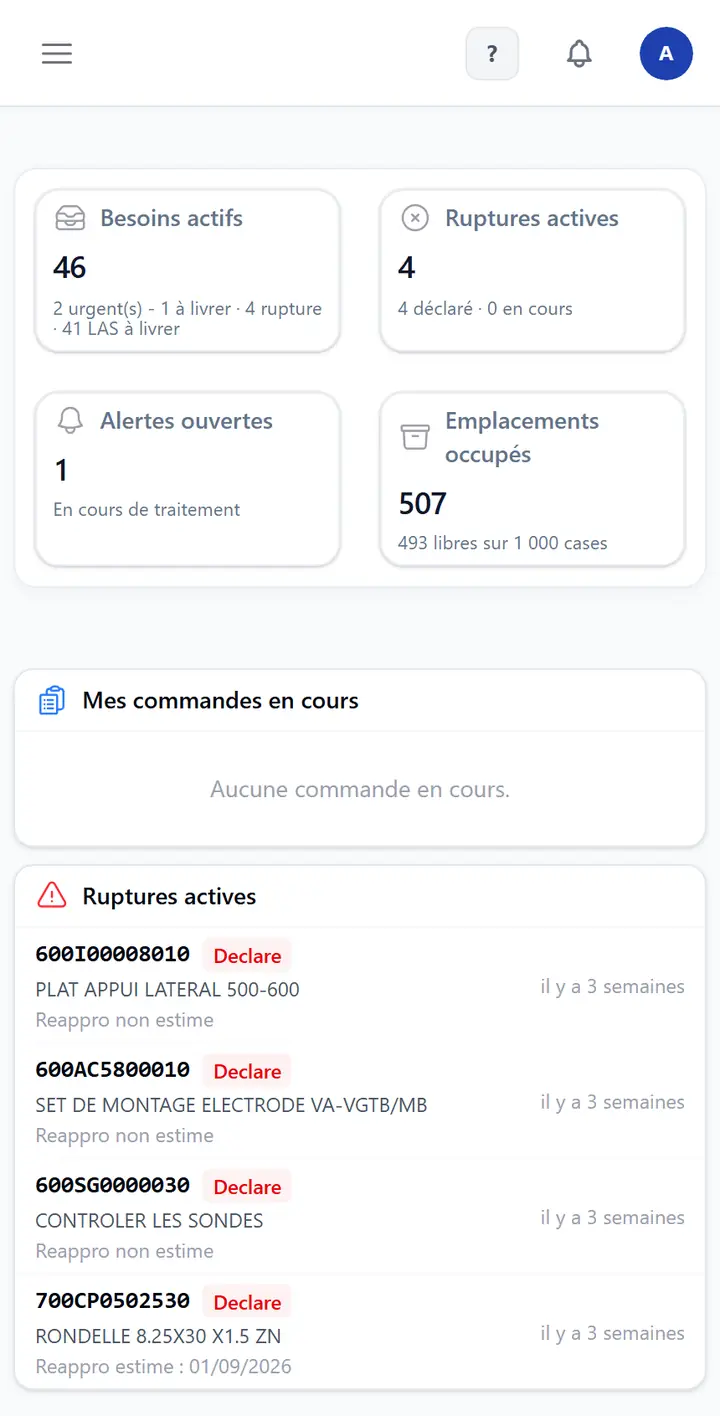
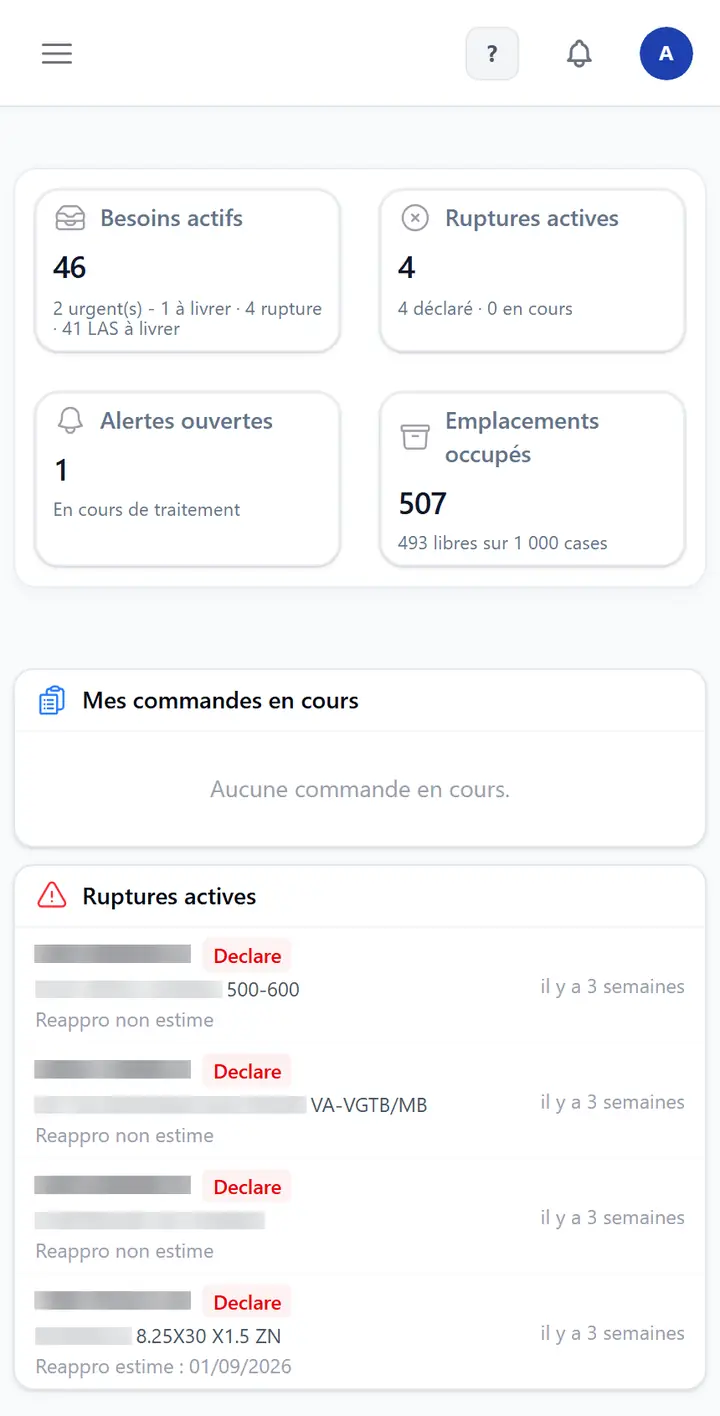
Descriptions raccourcies, vrais dashboards TRS, caviardage des captures metier
Descriptions
- Descriptions de projets divisees par deux et listes de points ramenees
  a trois entrees

TRS Web
- Ajout des deux ecrans qui manquaient : l'ecran TV temps reel multi-secteurs
  et le tableau de bord de pilotage, tous deux sans annotation
- L'ecran TV devient la vignette de la carte
- Retrait des captures qui zoomaient sur des panneaux isoles (courbe de
  cadence, donuts de defauts, derniers aleas) : l'ecran TV les couvre

AKAO Web
- Jeu recentre sur les ecrans sans donnees client : menu approvisionnement,
  tableau de bord, GAP, scan, liste a servir, zones, configuration, roles,
  profil, connexion

Caviardage
- References article, designations produit et prenoms floutes sur les
  captures TRS et AKAO, via OCR et regles de motif. Les compteurs, statuts,
  dates, en-tetes et la navigation restent lisibles.
- Ecartees faute de caviardage fiable ou pour cause de donnees personnelles :
  la vue palettier et les listes denses de codes, la liste nominative des
  utilisateurs, et une capture d'ecran de changement de mot de passe
  montrant un compte de domaine

Changed region(s): [[0.0306, 0.7458, 0.4278, 0.8701], [0.0306, 0.6525, 0.3056, 0.7147], [0.0306, 0.9011, 0.275, 0.9633]]

diff --git a/app/data/projects.ts b/app/data/projects.ts
@@ -39,12 +39,11 @@ export const projects: Project[] = [
     tagline: 'Scanner de vulnérabilités web',
     context: 'Projet personnel',
     description:
-      "Plateforme d'audit offensif que j'ai développée de bout en bout : moteur de reconnaissance, scanner de vulnérabilités et console temps réel. Les scans tournent sur des processus séparés pilotés par un orchestrateur, et les résultats remontent en direct dans l'interface par WebSocket.",
+      "Plateforme d'audit offensif développée de bout en bout : reconnaissance, scan de vulnérabilités et console temps réel.",
     highlights: [
-      'Détection des injections, contrôles d’accès cassés, SSRF, SSTI, GraphQL et fuites de secrets',
+      'Injections, contrôles d’accès, SSRF, SSTI, GraphQL, fuites de secrets',
       'Contournement de WAF par impersonation TLS, sans navigateur',
-      'Chaque résultat est trié en « à soumettre », « à vérifier » ou « bruit »',
-      'Explication en français de chaque faille : ce que c’est, pourquoi ça compte, comment la confirmer',
+      'Chaque résultat trié et expliqué en français',
     ],
     tags: [
       { label: 'Python', tone: 'blue' },
@@ -74,13 +73,11 @@ export const projects: Project[] = [
     tagline: 'Extension navigateur de détection de fichiers exposés',
     context: 'Projet personnel, fork de DotGit',
     description:
-      "Extension Chrome et Firefox qui teste en arrière-plan chaque site visité pour repérer les fichiers laissés accessibles par erreur : dépôt .git, .env, .htaccess, sauvegardes, configuration WordPress. Une alerte remonte dès qu’un fichier est trouvé, et le popup tient la liste des sites exposés.",
+      "Extension Chrome et Firefox qui teste en arrière-plan chaque site visité pour repérer les fichiers laissés accessibles par erreur : dépôt .git, .env, sauvegardes, configuration.",
     highlights: [
       'Analyse passive de chaque site visité, sans action de l’utilisateur',
-      'Liste des chemins sondés entièrement éditable, pas seulement .git et .env',
-      'Profils d’analyse pour basculer d’un jeu de règles à un autre',
-      'Cache des sites déjà analysés pour éviter de les re-sonder',
-      'Analyse groupée d’une liste de domaines, et sondeur d’endpoints intégré',
+      'Chemins sondés et profils d’analyse entièrement éditables',
+      'Analyse groupée d’une liste de domaines, sondeur d’endpoints intégré',
     ],
     tags: [
       { label: 'Extension MV3', tone: 'orange' },
@@ -110,12 +107,11 @@ export const projects: Project[] = [
     tagline: 'Suivi de production industrielle',
     context: 'Alternance, Groupe Atlantic YGNIS',
     description:
-      "Application de suivi du TRS (Taux de Rendement Synthétique) des lignes de production du site de Cauroir. Elle remplace les anciens classeurs Excel et VBA par une saisie temps réel au poste, des écrans TV en atelier et un panel d'administration complet. Mise en production après plusieurs cycles de retours avec les utilisateurs référents.",
+      "Suivi du Taux de Rendement Synthétique des lignes de production. Remplace les anciens classeurs Excel et VBA par une saisie au poste, des écrans TV en atelier et un back-office.",
     highlights: [
-      'Déclarations de production, aléas et défauts saisies directement au poste',
+      'Déclarations de production, aléas et défauts saisies au poste',
       'Écrans TV temps réel par secteur et multi-secteurs',
       'Widgets KPI configurables par formule, sans redéploiement',
-      'API de lecture pour les outils tiers',
     ],
     tags: [
       { label: 'Laravel', tone: 'red' },
@@ -124,20 +120,18 @@ export const projects: Project[] = [
       { label: 'SQL Server', tone: 'slate' },
     ],
     dir: 'trsweb',
-    cover: '02-poste-production',
+    cover: '01-ecran-tv',
     shots: [
-      { slug: '01-connexion', title: 'Connexion' },
-      { slug: '02-poste-production', title: 'Poste de production, secteur Four' },
-      { slug: '03-produit-scanne', title: 'Produit scanné et étapes de déclaration' },
-      { slug: '04-declarations', title: 'Déclarations en cours' },
-      { slug: '05-dernieres-productions', title: 'Dernières productions avec écarts' },
-      { slug: '06-courbe-cadence', title: 'Cadence réelle face à la cadence nécessaire' },
-      { slug: '07-defauts', title: 'Répartition des défauts par type' },
-      { slug: '08-aleas', title: 'Derniers aléas et temps d’arrêt' },
-      { slug: '09-kpi-widgets-tv', title: 'Widgets KPI configurables' },
-      { slug: '10-seuils-ip', title: 'Seuils d’indice de productivité par secteur' },
-      { slug: '11-admin-enregistrement', title: 'Administration, enregistrement TRS' },
-      { slug: '12-admin-utilisateur', title: 'Administration, utilisateurs et rôles' },
+      { slug: '01-ecran-tv', title: 'Écran TV temps réel, vue multi-secteurs' },
+      { slug: '02-tableau-de-bord', title: 'Tableau de bord, pilotage et monitoring' },
+      { slug: '03-poste-production', title: 'Poste de production, secteur Four' },
+      { slug: '04-produit-scanne', title: 'Produit scanné et étapes de déclaration' },
+      { slug: '05-declarations', title: 'Déclaration au poste' },
+      { slug: '06-kpi-widgets', title: 'Widgets KPI configurables par formule' },
+      { slug: '07-seuils-ip', title: 'Seuils d’indice de productivité par secteur' },
+      { slug: '08-admin-enregistrement', title: 'Administration, enregistrement TRS' },
+      { slug: '09-admin-utilisateur', title: 'Administration, utilisateurs et rôles' },
+      { slug: '10-connexion', title: 'Connexion' },
     ],
     links: [
       { label: 'Dépôt (privé)', href: 'https://github.com/Groupe-Atlantic/TRS_WEB', kind: 'github' },
@@ -149,12 +143,11 @@ export const projects: Project[] = [
     tagline: 'Réapprovisionnement bord de ligne',
     context: 'Alternance, Groupe Atlantic YGNIS',
     description:
-      "Refonte complète d'AKAO, l'application de réapprovisionnement interne, portée depuis WinDev vers le web. Les opérateurs déclarent besoins et ruptures depuis une interface mobile pensée pour le scan code-barres ; l'encadrement suit le palettier, les livraisons et les alertes côté bureau. Déployée en production sur IIS.",
+      "Réapprovisionnement bord de ligne porté de WinDev vers le web. Les opérateurs déclarent besoins et ruptures au scan, l'encadrement suit palettier et livraisons.",
     highlights: [
       'Interface mobile terrain avec douchette, et back-office sur poste',
       'Fonctionne sans accès Internet, aucune dépendance externe',
-      'Gestion des besoins, ruptures, listes à servir, palettier et alertes',
-      'Schéma de base versionné par scripts rejouables',
+      'Besoins, ruptures, listes à servir, palettier et alertes',
     ],
     tags: [
       { label: 'Laravel', tone: 'red' },
@@ -163,22 +156,19 @@ export const projects: Project[] = [
       { label: 'SQL Server', tone: 'slate' },
     ],
     dir: 'akaoweb',
-    cover: '11-gap-equipement',
+    cover: '01-menu-appro',
     shots: [
-      { slug: '01-connexion-badge', title: 'Connexion par badge' },
+      { slug: '01-menu-appro', title: 'Menu approvisionnement' },
       { slug: '02-tableau-de-bord', title: 'Tableau de bord opérateur' },
-      { slug: '03-menu-gap', title: 'Sélection du GAP' },
+      { slug: '03-menu-gap', title: 'Sélection du GAP et de la tournée' },
       { slug: '04-scan-article', title: 'Scan article et panier' },
-      { slug: '05-commande-urgente', title: 'Commande urgente sur rupture' },
-      { slug: '06-liste-a-servir', title: 'Liste à servir depuis un produit fini' },
-      { slug: '07-fiche-produit', title: 'Fiche produit et alerte de rupture' },
-      { slug: '08-besoins', title: 'Besoins actifs' },
-      { slug: '09-ruptures', title: 'Ruptures déclarées' },
-      { slug: '10-recap-livraisons', title: 'Récapitulatif des livraisons' },
-      { slug: '11-gap-equipement', title: 'Vue GAP équipement' },
-      { slug: '12-palettier', title: 'Palettier et occupation des emplacements' },
-      { slug: '13-configuration', title: 'Configuration applicative' },
-      { slug: '14-roles', title: 'Rôles et permissions' },
+      { slug: '05-liste-a-servir', title: 'Liste à servir depuis un produit fini' },
+      { slug: '06-zones-depose', title: 'Zones de dépose' },
+      { slug: '07-gaps', title: 'Référentiel des GAP' },
+      { slug: '08-configuration', title: 'Configuration applicative' },
+      { slug: '09-roles', title: 'Rôles et permissions' },
+      { slug: '10-profil', title: 'Profil utilisateur' },
+      { slug: '11-connexion-badge', title: 'Connexion par badge' },
     ],
     links: [
       { label: 'Dépôt (privé)', href: 'https://github.com/Groupe-Atlantic/AKAO_WEB', kind: 'github' },
@@ -190,7 +180,7 @@ export const projects: Project[] = [
     tagline: 'Plateforme d’analyse web',
     context: 'Projet personnel',
     description:
-      "Plateforme permettant de lancer des tests de sécurité et de la reconnaissance sur des applications web, avec comptes utilisateurs, tableau de bord et historique des rapports.",
+      "Tests de sécurité et reconnaissance sur des applications web, avec comptes, tableau de bord et historique des rapports.",
     tags: [
       { label: 'Next.js', tone: 'slate' },
       { label: 'TypeScript', tone: 'blue' },
@@ -214,7 +204,7 @@ export const projects: Project[] = [
     tagline: 'Extranet médical',
     context: 'Projet de formation',
     description:
-      "Application web de gestion pour laboratoire pharmaceutique : visites, visioconférences et produits, avec authentification à deux facteurs, module de maintenance et journalisation des opérations.",
+      "Gestion pour laboratoire pharmaceutique : visites, visioconférences et produits, avec double authentification et journalisation.",
     tags: [
       { label: 'PHP', tone: 'purple' },
       { label: 'CRUD', tone: 'blue' },
@@ -237,7 +227,7 @@ export const projects: Project[] = [
     tagline: 'Partage de fichiers',
     context: 'Projet de formation',
     description:
-      "Application de dépôt et de gestion de fichiers par glisser-déposer, avec catégories, comptes utilisateurs et interface d'administration pour consulter et modifier les fichiers envoyés.",
+      "Dépôt et gestion de fichiers par glisser-déposer, avec catégories, comptes et interface d'administration.",
     tags: [
       { label: 'Symfony', tone: 'green' },
       { label: 'PHP', tone: 'purple' },
